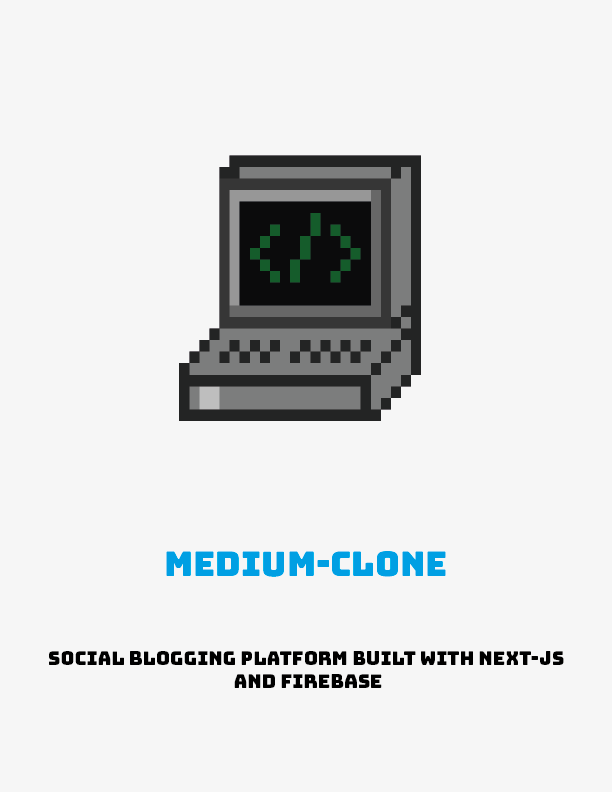
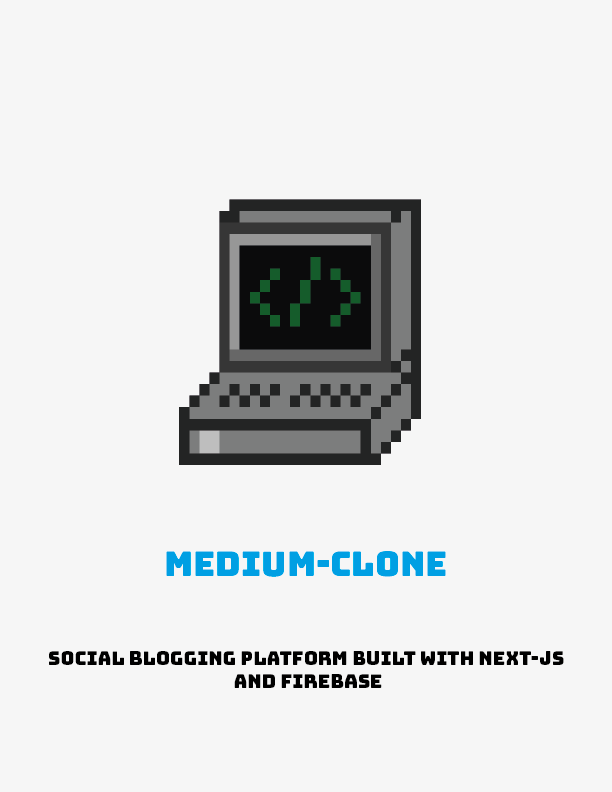
adjusting the pics of my projects

Changed region(s): [[0.2794, 0.1818, 0.7141, 0.6061]]

diff --git a/index.html b/index.html
@@ -88,17 +88,17 @@ Looking for my next challenge.
         <div class="portfolio">
             <!-- Portfolio item 01 -->
             <a href="https://trippyy28.github.io/pixel-art-editor/" class="portfolio__item">
-                <img src="img/Pixelart.png" alt="face-pixelart" class="portfolio__img">
+                <img src="img/Pixel-Art-Maker.png" alt="face-pixelart" class="portfolio__img">
             </a>
             
             <!-- Portfolio item 02 -->
             <a href="https://trippyy28.github.io/trippyysamplesdemo/" class="portfolio__item">
-                <img src="img/synth.png" alt="synth-pixelart" class="portfolio__img">
+                <img src="img/Trippyy-Samples.png" alt="synth-pixelart" class="portfolio__img">
             </a>
             
             <!-- Portfolio item 03 -->
             <a href="https://medium-clone-three.vercel.app/" class="portfolio__item">
-                <img src="img/mediummm.png" alt="" class="portfolio__img">
+                <img src="img/Medium.png" alt="" class="portfolio__img">
             </a>
             
             <!-- Portfolio item 04 -->

diff --git a/css/style.css b/css/style.css
@@ -402,7 +402,7 @@ header {
 
 .portfolio__img:hover,
 .portfolio__item:focus .portfolio__img {
-  transform: scale(1.2);
+  transform: scale(1.1);
   opacity: 0.5;
 }
 
